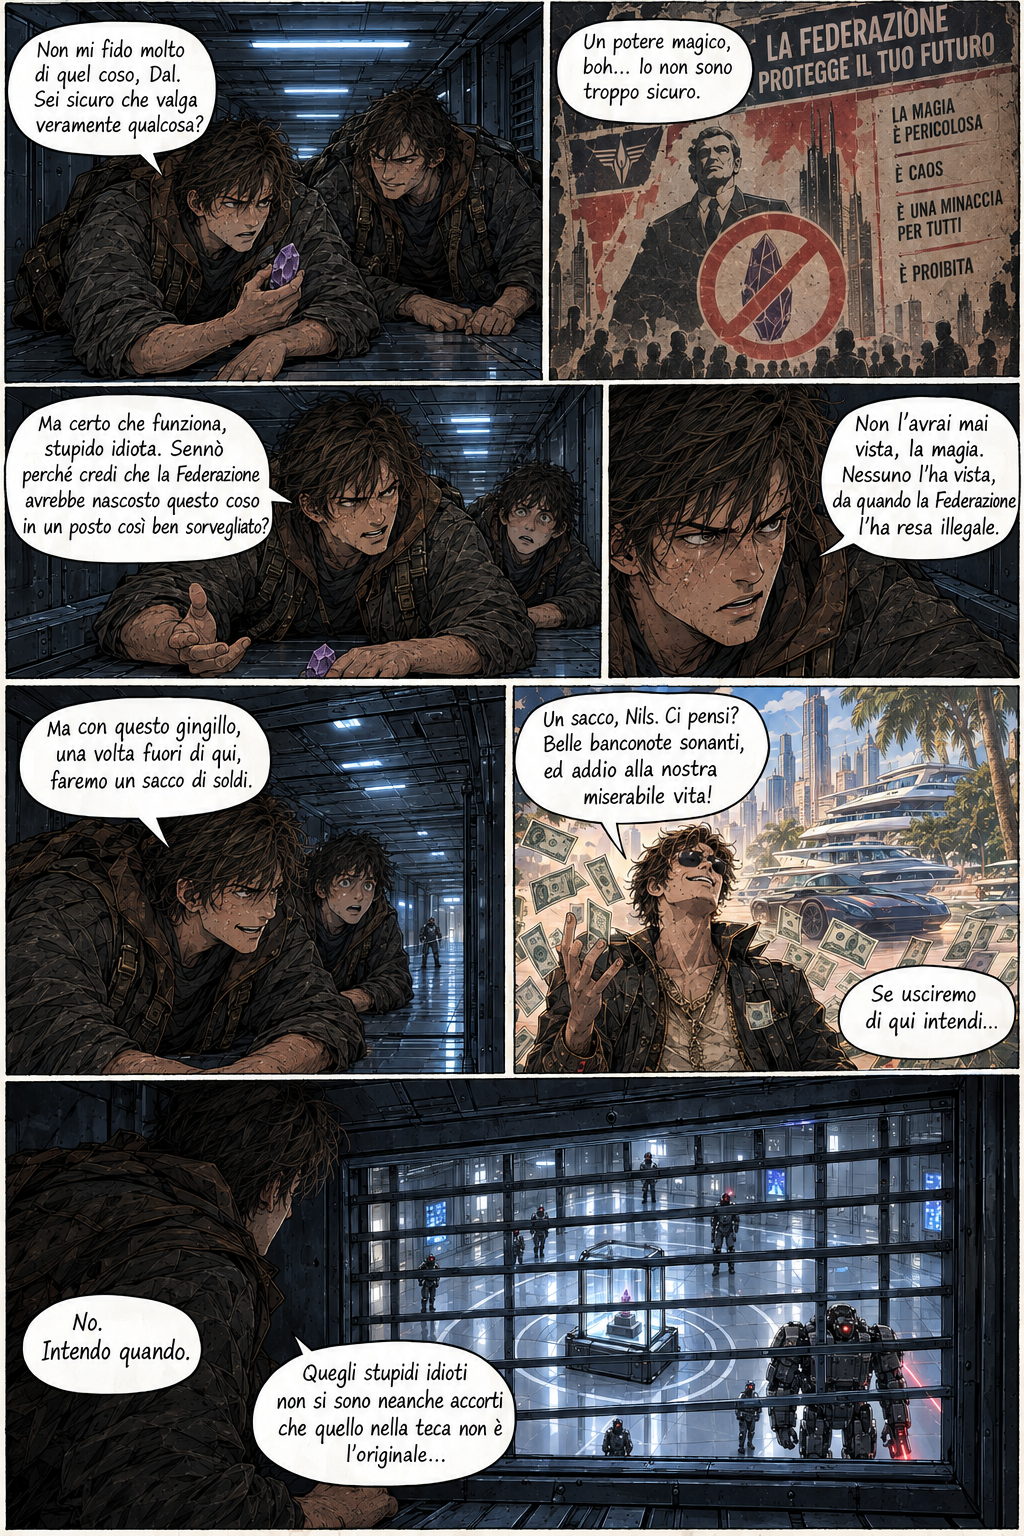
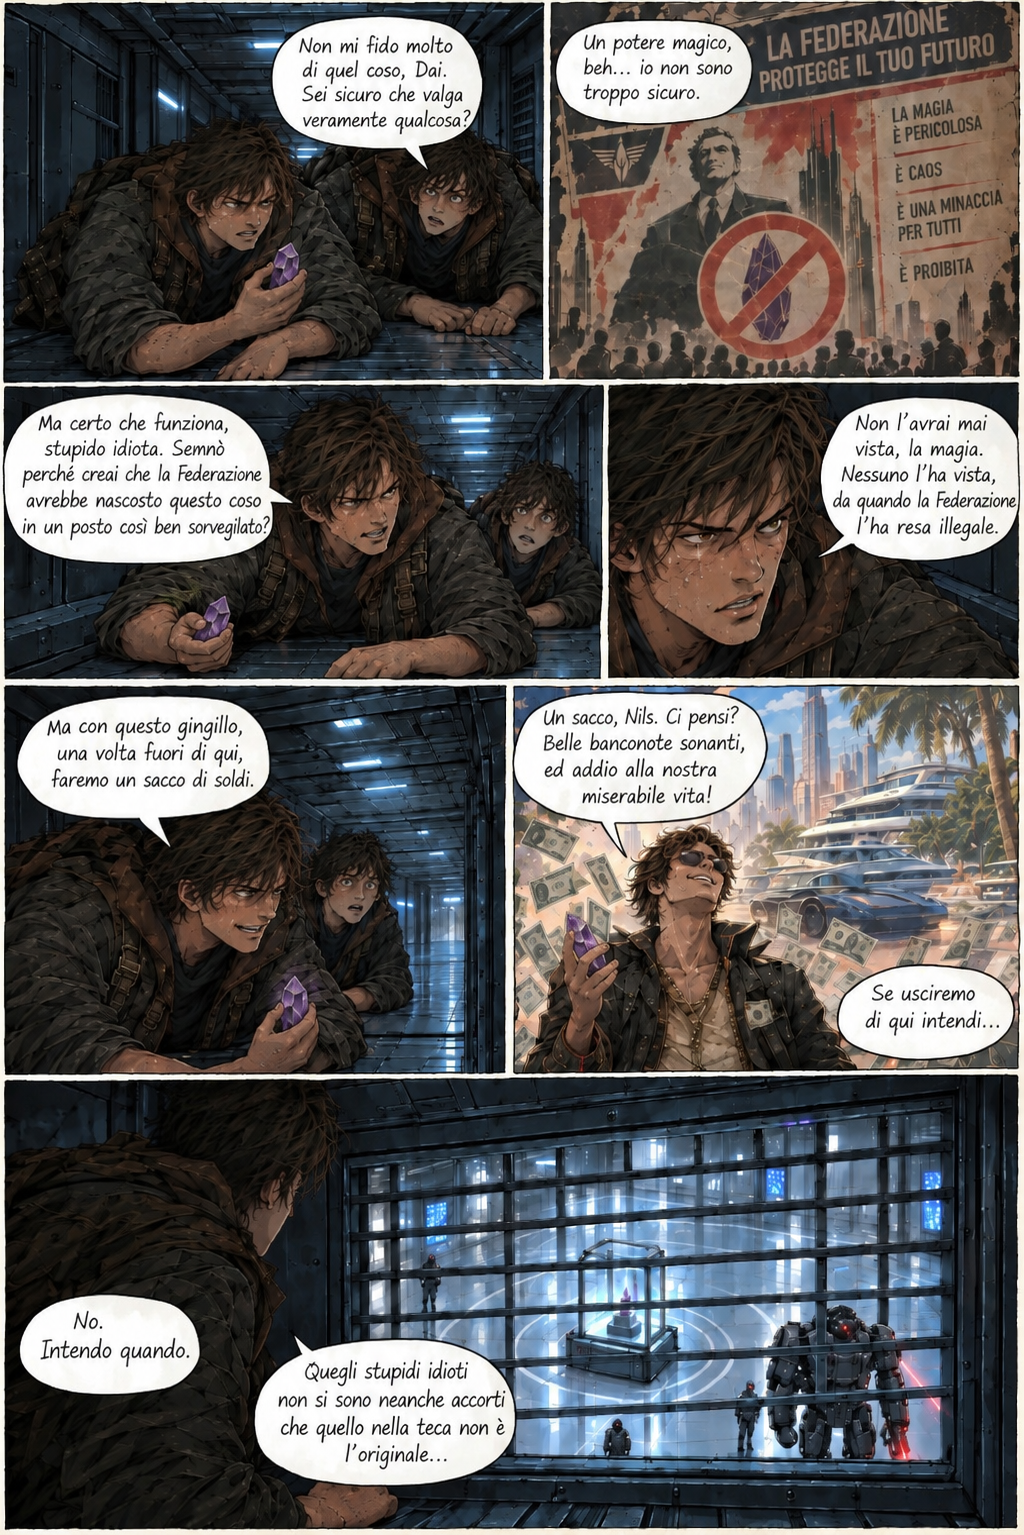
.

diff --git a/ldc/index.html b/ldc/index.html
@@ -42,6 +42,16 @@
 				<div id="recents">
 					<div class="section-name">Uscite Recenti</div>
 					<div class="update">
+						<a href="doppioscambio.html">
+							<div class="update-cover">
+								<img src="img/doppioscambio/Doppio-Scambio_00.png" alt="Doppio Scambio - Copertina">
+							</div>
+						</a>
+						<div class="update-title">Doppio Scambio</div>
+						<span class="update-date">Aggiornato: 29/09/2026</span>
+					</div>
+
+					<div class="update">
 						<a href="laluce.html">
 							<div class="update-cover">
 								<img src="img/laluce/La-Luce_00.png" alt="La Luce - Copertina">
@@ -49,16 +59,6 @@
 						</a>
 						<div class="update-title">La Luce</div>
 						<span class="update-date">Aggiornato: 16/03/2026</span>
-					</div>
-
-					<div class="update">
-						<a href="doppioscambio.html">
-							<div class="update-cover">
-								<img src="img/doppioscambio/Doppio-Scambio_00.png" alt="Doppio Scambio - Copertina">
-							</div>
-						</a>
-						<div class="update-title">Doppio Scambio</div>
-						<span class="update-date">Aggiornato: 21/09/2026</span>
 					</div>
 				</div>
 			</div>

diff --git a/ldc/doppioscambio.html b/ldc/doppioscambio.html
@@ -43,7 +43,7 @@
 						<path d="M8.051 1.999h.089c.822.003 4.987.033 6.11.335a2.01 2.01 0 0 1 1.415 1.42c.101.38.172.883.22 1.402l.01.104.022.26.008.104c.065.914.073 1.77.074 1.957v.075c-.001.194-.01 1.108-.082 2.06l-.008.105-.009.104c-.05.572-.124 1.14-.235 1.558a2.01 2.01 0 0 1-1.415 1.42c-1.16.312-5.569.334-6.18.335h-.142c-.309 0-1.587-.006-2.927-.052l-.17-.006-.087-.004-.171-.007-.171-.007c-1.11-.049-2.167-.128-2.654-.26a2.01 2.01 0 0 1-1.415-1.419c-.111-.417-.185-.986-.235-1.558L.09 9.82l-.008-.104A31 31 0 0 1 0 7.68v-.123c.002-.215.01-.958.064-1.778l.007-.103.003-.052.008-.104.022-.26.01-.104c.048-.519.119-1.023.22-1.402a2.01 2.01 0 0 1 1.415-1.42c.487-.13 1.544-.21 2.654-.26l.17-.007.172-.006.086-.003.171-.007A100 100 0 0 1 7.858 2zM6.4 5.209v4.818l4.157-2.408z"/>
 					</svg>
 				</a><br>
-				<span class="comic-dates">Pubblicato il: 21/09/2026 - Aggiornato il: 21/09/2026</span>
+				<span class="comic-dates">Pubblicato il: 21/09/2026 - Aggiornato il: 29/09/2026</span>
 			</div>
 
 			<!-- Two columns layout -->
